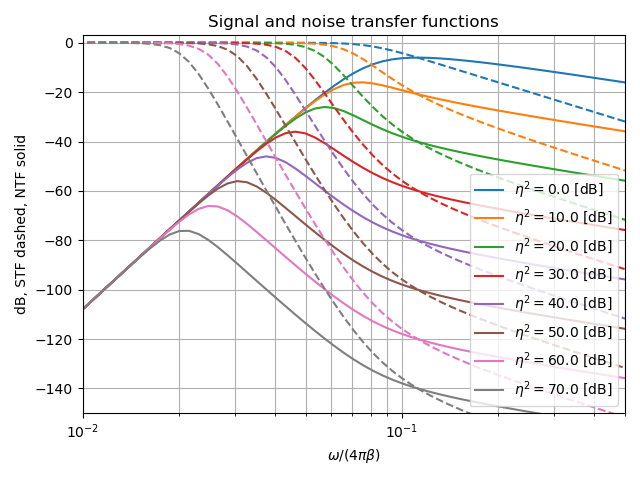
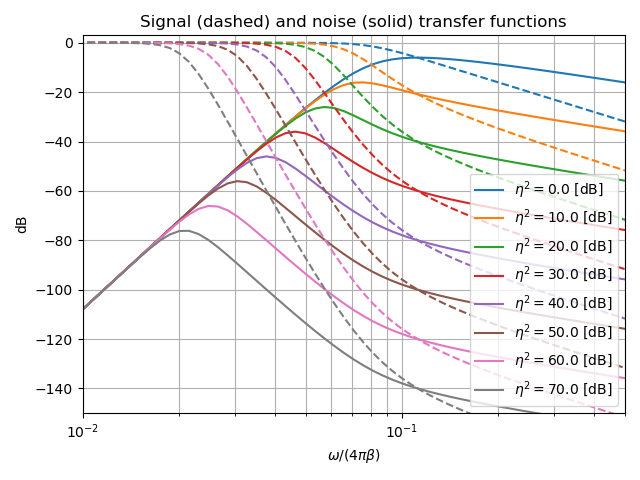
updates to documentation

diff --git a/src/cbadc/simulator.c b/src/cbadc/simulator.c
@@ -1053,7 +1053,7 @@ struct __pyx_obj_5cbadc_13analog_signal_AnalogSignal {
  * 
  * cdef class StateSpaceSimulator(object):             # <<<<<<<<<<<<<<
  *     """Simulate the analog system and digital control interactions
- *     in the precense on analog signals.
+ *     in the presence on analog signals.
  */
 struct __pyx_obj_5cbadc_9simulator_StateSpaceSimulator {
   PyObject_HEAD
@@ -1260,7 +1260,7 @@ static struct __pyx_vtabstruct_5cbadc_13analog_signal_AnalogSignal *__pyx_vtabpt
  * 
  * cdef class StateSpaceSimulator(object):             # <<<<<<<<<<<<<<
  *     """Simulate the analog system and digital control interactions
- *     in the precense on analog signals.
+ *     in the presence on analog signals.
  */
 
 struct __pyx_vtabstruct_5cbadc_9simulator_StateSpaceSimulator {
@@ -21280,7 +21280,7 @@ static PyTypeObject __pyx_type_5cbadc_9simulator_StateSpaceSimulator = {
   0, /*tp_setattro*/
   0, /*tp_as_buffer*/
   Py_TPFLAGS_DEFAULT|Py_TPFLAGS_HAVE_VERSION_TAG|Py_TPFLAGS_CHECKTYPES|Py_TPFLAGS_HAVE_NEWBUFFER|Py_TPFLAGS_BASETYPE|Py_TPFLAGS_HAVE_GC, /*tp_flags*/
-  "StateSpaceSimulator(AnalogSystem analog_system, DigitalControl digital_control, input_signal, Ts=None, t_stop=math.inf, atol=1e-12, rtol=1e-12, max_step=math.inf)\nSimulate the analog system and digital control interactions\n    in the precense on analog signals.\n\n    Parameters\n    ----------\n    analog_system : :py:class:`cbadc.analog_system.AnalogSystem`\n        the analog system\n    digital_control: :py:class:`cbadc.digital_control.DigitalControl`\n        the digital control\n    input_signals : [:py:class:`cbadc.analog_signal.AnalogSignal`]\n        a python list of analog signals (or a derived class)\n    Ts : `float`, optional\n        specify a sampling rate at which we want to evaluate the systems\n        , defaults to digitalContro.Ts. Note that this Ts must be smaller \n        than digital_control.Ts. \n    t_stop : `float`, optional\n        determines a stop time, defaults to :py:obj:`math.inf`\n\n\n\n    Attributes\n    ----------\n    analog_system : :py:class:`cbadc.analog_system.AnalogSystem`\n        the analog system being simulated.\n    digital_control : :py:class:`cbadc.digital_control.DigitalControl`\n        the digital control being simulated.\n    t : `float`\n        current time of simulator.\n    Ts : `float` \n        sample rate of simulation.\n    t_stop : `float`\n        end time at which the generator raises :py:class:`StopIteration`.\n    rtol, atol : `float`, `optional`\n        Relative and absolute tolerances. The solver keeps the local error estimates less \n        than atol + rtol * abs(y). Effects the underlying solver as described in \n        :py:func:`scipy.integrate.solve_ivp`. Default to 1e-3 for rtol and 1e-6 for atol.\n    max_step : `float`, `optional`\n        Maximum allowed step size. Default is np.inf, i.e., the step size is not \n        bounded and determined solely by the solver. Effects the underlying solver as \n        described in :py:func:`scipy.integrate.solve_ivp`. Defaults to :py:obj:`math.in""f`. \n    See also\n    --------\n    :py:class:`cbadc.analog_signal.AnalogSignal`\n    :py:class:`cbadc.analog_system.AnalogSystem`\n    :py:class:`cbadc.digital_control.DigitalControl`\n\n    Examples\n    --------\n    >>> from cbadc.simulator import StateSpaceSimulator\n    >>> from cbadc.analog_signal import Sinusodial\n    >>> from cbadc.analog_system import AnalogSystem\n    >>> from cbadc.digital_control import DigitalControl\n    >>> import numpy as np\n    >>> A = np.array([[0., 0], [6250., 0.]])\n    >>> B = np.array([[6250., 0]]).transpose()\n    >>> CT = np.array([[1, 0], [0, 1]])\n    >>> Gamma = np.array([[-6250, 0], [0, -6250]])\n    >>> Gamma_tildeT = CT\n    >>> analog_system = AnalogSystem(A, B, CT, Gamma, Gamma_tildeT)\n    >>> digital_control = DigitalControl(1e-6, 2)\n    >>> input_signal = Sinusodial(1.0, 250)\n    >>> simulator = StateSpaceSimulator(analog_system, digital_control, (input_signal,))\n    >>> _ = simulator.__next__()\n    >>> _ = simulator.__next__()\n    >>> print(np.array(simulator.__next__()))\n    [0 0]\n    \n    See also\n    --------\n\n    Yields\n    ------\n    `array_like`, shape=(M,), dtype=numpy.int8\n    \n    Raises\n    ------\n    str : unknown\n\n    ", /*tp_doc*/
+  "StateSpaceSimulator(AnalogSystem analog_system, DigitalControl digital_control, input_signal, Ts=None, t_stop=math.inf, atol=1e-12, rtol=1e-12, max_step=math.inf)\nSimulate the analog system and digital control interactions\n    in the presence on analog signals.\n\n    Parameters\n    ----------\n    analog_system : :py:class:`cbadc.analog_system.AnalogSystem`\n        the analog system\n    digital_control: :py:class:`cbadc.digital_control.DigitalControl`\n        the digital control\n    input_signals : [:py:class:`cbadc.analog_signal.AnalogSignal`]\n        a python list of analog signals (or a derived class)\n    Ts : `float`, optional\n        specify a sampling rate at which we want to evaluate the systems\n        , defaults to digitalContro.Ts. Note that this Ts must be smaller \n        than digital_control.Ts. \n    t_stop : `float`, optional\n        determines a stop time, defaults to :py:obj:`math.inf`\n\n\n\n    Attributes\n    ----------\n    analog_system : :py:class:`cbadc.analog_system.AnalogSystem`\n        the analog system being simulated.\n    digital_control : :py:class:`cbadc.digital_control.DigitalControl`\n        the digital control being simulated.\n    t : `float`\n        current time of simulator.\n    Ts : `float` \n        sample rate of simulation.\n    t_stop : `float`\n        end time at which the generator raises :py:class:`StopIteration`.\n    rtol, atol : `float`, `optional`\n        Relative and absolute tolerances. The solver keeps the local error estimates less \n        than atol + rtol * abs(y). Effects the underlying solver as described in \n        :py:func:`scipy.integrate.solve_ivp`. Default to 1e-3 for rtol and 1e-6 for atol.\n    max_step : `float`, `optional`\n        Maximum allowed step size. Default is np.inf, i.e., the step size is not \n        bounded and determined solely by the solver. Effects the underlying solver as \n        described in :py:func:`scipy.integrate.solve_ivp`. Defaults to :py:obj:`math.in""f`. \n    See also\n    --------\n    :py:class:`cbadc.analog_signal.AnalogSignal`\n    :py:class:`cbadc.analog_system.AnalogSystem`\n    :py:class:`cbadc.digital_control.DigitalControl`\n\n    Examples\n    --------\n    >>> from cbadc.simulator import StateSpaceSimulator\n    >>> from cbadc.analog_signal import Sinusodial\n    >>> from cbadc.analog_system import AnalogSystem\n    >>> from cbadc.digital_control import DigitalControl\n    >>> import numpy as np\n    >>> A = np.array([[0., 0], [6250., 0.]])\n    >>> B = np.array([[6250., 0]]).transpose()\n    >>> CT = np.array([[1, 0], [0, 1]])\n    >>> Gamma = np.array([[-6250, 0], [0, -6250]])\n    >>> Gamma_tildeT = CT\n    >>> analog_system = AnalogSystem(A, B, CT, Gamma, Gamma_tildeT)\n    >>> digital_control = DigitalControl(1e-6, 2)\n    >>> input_signal = Sinusodial(1.0, 250)\n    >>> simulator = StateSpaceSimulator(analog_system, digital_control, (input_signal,))\n    >>> _ = simulator.__next__()\n    >>> _ = simulator.__next__()\n    >>> print(np.array(simulator.__next__()))\n    [0 0]\n    \n    See also\n    --------\n\n    Yields\n    ------\n    `array_like`, shape=(M,), dtype=numpy.int8\n    \n    Raises\n    ------\n    str : unknown\n\n    ", /*tp_doc*/
   __pyx_tp_traverse_5cbadc_9simulator_StateSpaceSimulator, /*tp_traverse*/
   __pyx_tp_clear_5cbadc_9simulator_StateSpaceSimulator, /*tp_clear*/
   0, /*tp_richcompare*/

diff --git a/docs/code_examples/b_general/plot_b_FIR_Filtering.py b/docs/code_examples/b_general/plot_b_FIR_Filtering.py
@@ -171,9 +171,9 @@ for eta2 in Eta2:
 # Add labels and legends to figure
 plt.legend(loc=4)
 plt.grid(which='both')
-plt.title("Signal and noise transfer functions")
+plt.title("Signal (dashed) and noise (solid) transfer functions")
 plt.xlabel("$\omega / (4 \pi \\beta ) $")
-plt.ylabel("dB, STF dashed, NTF solid")
+plt.ylabel("dB")
 plt.xlim((1e-2, 0.5))
 plt.ylim((-150, 3))
 plt.gcf().tight_layout()
@@ -261,7 +261,7 @@ for index_de in range(len(filter_lengths)):
     # Compute estimates for each estimator
     for index, estimate in enumerate(digital_estimators[index_de]):
         u_hat[index] = estimate
-    u_hats.append(u_hat)
+    u_hats.append(np.copy(u_hat))
 
     # Compute power spectral density
     f, psd = compute_power_spectral_density(
@@ -294,12 +294,14 @@ fig.tight_layout()
 plt.rcParams['figure.figsize'] = [6.40, 6.40]
 plt.figure()
 for index in range(len(filter_lengths)):
-    t_fir = np.arange(0, stop_after_number_of_iterations)
-    plt.plot(t_fir, u_hat, label=f'K1=K2={filter_lengths[index]}')
-plt.legend()
+    t_fir = np.arange(-filter_lengths[index] + 1,
+                      stop_after_number_of_iterations - filter_lengths[index] + 1)
+    plt.plot(t_fir, u_hats[index],
+             label=f'K1=K2={filter_lengths[index]}')
 plt.ylabel('$\hat{u}(t)$')
 plt.xlim((64000, 64600))
 plt.ylim((-0.6, 0.6))
 plt.xlabel("$t / T$")
+_ = plt.legend()
 
 # sphinx_gallery_thumbnail_number = 4

diff --git a/docs/source/auto_examples/b_general/plot_b_FIR_Filtering.py b/docs/source/auto_examples/b_general/plot_b_FIR_Filtering.py
@@ -171,9 +171,9 @@ for eta2 in Eta2:
 # Add labels and legends to figure
 plt.legend(loc=4)
 plt.grid(which='both')
-plt.title("Signal and noise transfer functions")
+plt.title("Signal (dashed) and noise (solid) transfer functions")
 plt.xlabel("$\omega / (4 \pi \\beta ) $")
-plt.ylabel("dB, STF dashed, NTF solid")
+plt.ylabel("dB")
 plt.xlim((1e-2, 0.5))
 plt.ylim((-150, 3))
 plt.gcf().tight_layout()
@@ -261,7 +261,7 @@ for index_de in range(len(filter_lengths)):
     # Compute estimates for each estimator
     for index, estimate in enumerate(digital_estimators[index_de]):
         u_hat[index] = estimate
-    u_hats.append(u_hat)
+    u_hats.append(np.copy(u_hat))
 
     # Compute power spectral density
     f, psd = compute_power_spectral_density(
@@ -294,12 +294,14 @@ fig.tight_layout()
 plt.rcParams['figure.figsize'] = [6.40, 6.40]
 plt.figure()
 for index in range(len(filter_lengths)):
-    t_fir = np.arange(0, stop_after_number_of_iterations)
-    plt.plot(t_fir, u_hat, label=f'K1=K2={filter_lengths[index]}')
-plt.legend()
+    t_fir = np.arange(-filter_lengths[index] + 1,
+                      stop_after_number_of_iterations - filter_lengths[index] + 1)
+    plt.plot(t_fir, u_hats[index],
+             label=f'K1=K2={filter_lengths[index]}')
 plt.ylabel('$\hat{u}(t)$')
 plt.xlim((64000, 64600))
 plt.ylim((-0.6, 0.6))
 plt.xlabel("$t / T$")
+_ = plt.legend()
 
 # sphinx_gallery_thumbnail_number = 4

diff --git a/docs/code_examples/b_general/plot_a_compare_estimator.py b/docs/code_examples/b_general/plot_a_compare_estimator.py
@@ -396,8 +396,8 @@ plt.show()
 
 
 ###############################################################################
-# Computational Time
-# ------------------
+# Compute Time
+# ------------
 #
 # Compare the execution time of each estimator
 import timeit

diff --git a/docs/source/auto_examples/b_general/plot_a_compare_estimator.py b/docs/source/auto_examples/b_general/plot_a_compare_estimator.py
@@ -396,8 +396,8 @@ plt.show()
 
 
 ###############################################################################
-# Computational Time
-# ------------------
+# Compute Time
+# ------------
 #
 # Compare the execution time of each estimator
 import timeit

diff --git a/docs/source/auto_examples/b_general/plot_b_FIR_Filtering.rst b/docs/source/auto_examples/b_general/plot_b_FIR_Filtering.rst
@@ -276,9 +276,9 @@ as a function of the bandwidth parameter :math:`\eta^2`.
     # Add labels and legends to figure
     plt.legend(loc=4)
     plt.grid(which='both')
-    plt.title("Signal and noise transfer functions")
+    plt.title("Signal (dashed) and noise (solid) transfer functions")
     plt.xlabel("$\omega / (4 \pi \\beta ) $")
-    plt.ylabel("dB, STF dashed, NTF solid")
+    plt.ylabel("dB")
     plt.xlim((1e-2, 0.5))
     plt.ylim((-150, 3))
     plt.gcf().tight_layout()
@@ -298,7 +298,7 @@ as a function of the bandwidth parameter :math:`\eta^2`.
     *
 
       .. image:: /auto_examples/b_general/images/sphx_glr_plot_b_FIR_Filtering_003.png
-          :alt: Signal and noise transfer functions
+          :alt: Signal (dashed) and noise (solid) transfer functions
           :class: sphx-glr-multi-img
 
 
@@ -349,7 +349,7 @@ control signals :math:`\mathbf{s}[k]` can be filtered with FIR filters
 of different lengths as their decay varies.
 
 
-.. GENERATED FROM PYTHON SOURCE LINES 204-305
+.. GENERATED FROM PYTHON SOURCE LINES 204-307
 
 .. code-block:: default
    :lineno-start: 204
@@ -414,7 +414,7 @@ of different lengths as their decay varies.
         # Compute estimates for each estimator
         for index, estimate in enumerate(digital_estimators[index_de]):
             u_hat[index] = estimate
-        u_hats.append(u_hat)
+        u_hats.append(np.copy(u_hat))
 
         # Compute power spectral density
         f, psd = compute_power_spectral_density(
@@ -447,13 +447,15 @@ of different lengths as their decay varies.
     plt.rcParams['figure.figsize'] = [6.40, 6.40]
     plt.figure()
     for index in range(len(filter_lengths)):
-        t_fir = np.arange(0, stop_after_number_of_iterations)
-        plt.plot(t_fir, u_hat, label=f'K1=K2={filter_lengths[index]}')
-    plt.legend()
+        t_fir = np.arange(-filter_lengths[index] + 1,
+                          stop_after_number_of_iterations - filter_lengths[index] + 1)
+        plt.plot(t_fir, u_hats[index],
+                 label=f'K1=K2={filter_lengths[index]}')
     plt.ylabel('$\hat{u}(t)$')
     plt.xlim((64000, 64600))
     plt.ylim((-0.6, 0.6))
     plt.xlabel("$t / T$")
+    _ = plt.legend()
 
 
 
@@ -480,21 +482,13 @@ of different lengths as their decay varies.
           :class: sphx-glr-multi-img
 
 
-.. rst-class:: sphx-glr-script-out
-
- Out:
-
- .. code-block:: none
-
-
-    Text(0.5, 41.12222222222221, '$t / T$')
 
 
 
 
 .. rst-class:: sphx-glr-timing
 
-   **Total running time of the script:** ( 5 minutes  37.352 seconds)
+   **Total running time of the script:** ( 5 minutes  53.487 seconds)
 
 
 .. _sphx_glr_download_auto_examples_b_general_plot_b_FIR_Filtering.py:

diff --git a/docs/source/auto_examples/b_general/sg_execution_times.rst b/docs/source/auto_examples/b_general/sg_execution_times.rst
@@ -5,10 +5,10 @@
 
 Computation times
 =================
-**05:37.352** total execution time for **auto_examples_b_general** files:
+**05:53.487** total execution time for **auto_examples_b_general** files:
 
 +-------------------------------------------------------------------------------------------------------+-----------+--------+
-| :ref:`sphx_glr_auto_examples_b_general_plot_b_FIR_Filtering.py` (``plot_b_FIR_Filtering.py``)         | 05:37.352 | 0.0 MB |
+| :ref:`sphx_glr_auto_examples_b_general_plot_b_FIR_Filtering.py` (``plot_b_FIR_Filtering.py``)         | 05:53.487 | 0.0 MB |
 +-------------------------------------------------------------------------------------------------------+-----------+--------+
 | :ref:`sphx_glr_auto_examples_b_general_plot_a_compare_estimator.py` (``plot_a_compare_estimator.py``) | 00:00.000 | 0.0 MB |
 +-------------------------------------------------------------------------------------------------------+-----------+--------+

diff --git a/docs/source/auto_examples/b_general/plot_a_compare_estimator.rst b/docs/source/auto_examples/b_general/plot_a_compare_estimator.rst
@@ -943,8 +943,8 @@ in both time and frequency domain.
 
 .. GENERATED FROM PYTHON SOURCE LINES 399-403
 
-Computational Time
-------------------
+Compute Time
+------------
 
 Compare the execution time of each estimator
 
@@ -1024,16 +1024,16 @@ Compare the execution time of each estimator
  .. code-block:: none
 
     Digital Estimator:
-    2.709036816988373 sec 
+    2.7141672010038747 sec 
 
     FIR Estimator:
-    34.77166284401028 sec 
+    38.68493807500636 sec 
 
     IIR Estimator:
-    21.792242562994943 sec 
+    26.050817937997635 sec 
 
     Parallel Estimator:
-    9.39491183499922 sec 
+    11.09981299599167 sec 
 
 
 
@@ -1042,7 +1042,7 @@ Compare the execution time of each estimator
 
 .. rst-class:: sphx-glr-timing
 
-   **Total running time of the script:** ( 25 minutes  23.264 seconds)
+   **Total running time of the script:** ( 25 minutes  4.912 seconds)
 
 
 .. _sphx_glr_download_auto_examples_b_general_plot_a_compare_estimator.py:

diff --git a/docs/source/index.rst b/docs/source/index.rst
@@ -1,6 +1,6 @@
-#################################################################
-Welcome to Control-Bounded A/D Conversion Toolbox's Documentation
-#################################################################
+#####################################################################
+Welcome to the Control-Bounded A/D Conversion Toolbox's Documentation
+#####################################################################
 
 This is the official documentation for the `control-bounded analog-to-digital conversion (cbadc)
 <https://pypi.org/project/cbadc/>`_ python package, which is a **toolbox** intended

diff --git a/README.md b/README.md
@@ -17,10 +17,18 @@ The projects official documentation can be found at [Read the Docs](https://cbad
 
 For a in depth description of the control-bounded conversion concept, check out [Control-Bounded Converters](https://doi.org/10.3929/ethz-b-000469192).
 
-# Building from Source Code
-...
+# Installation
+
+Install [cbadc](https://pypi.org/project/cbadc/) by typing
+
+```bash
+pip install cbadc
+```
+
+into your console. Note that, currently cbadc is only supported for Python3.6 and later.
+
 # Changelog
 
-## 0.0.1
+## 0.1.0
 
-- First release
+- First public release
